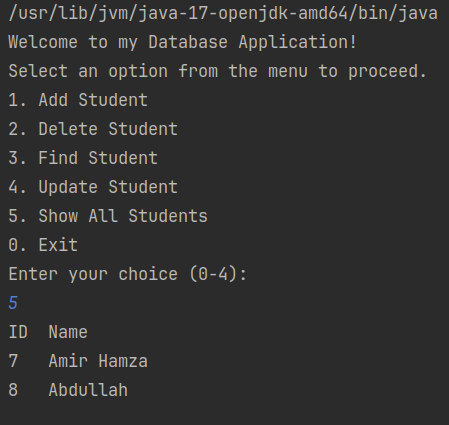
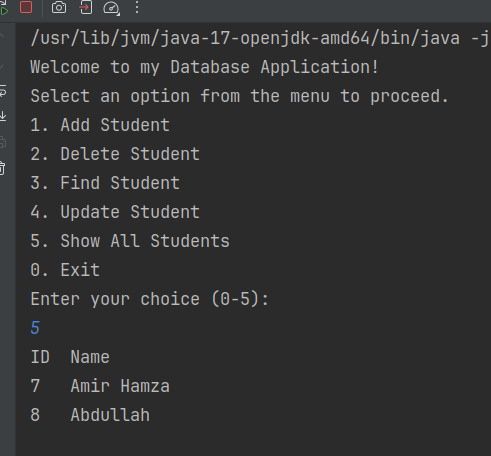
added comments and fixed typing mistakes.

diff --git a/JDBC-CRUD/src/Application/Services.java b/JDBC-CRUD/src/Application/Services.java
@@ -3,17 +3,20 @@ package Application;
 import java.sql.*;
 
 public class Services {
+
+    // Database credentials
     static String url = "jdbc:mysql://urowmyrks8sa1rih:RsKRqsn19uGmkebas6WR@b3p5m8nhncgiqy1daeus-mysql.services.clever-cloud.com:3306/b3p5m8nhncgiqy1daeus";
     static String user = "urowmyrks8sa1rih";
     static String password = "RsKRqsn19uGmkebas6WR";
 
+    // SQL queries for CRUD operations
     static String insertQuery = "insert into newstudent (name) values (?)";
     static String deleteQuery = "delete from newstudent where id = ?";
     static String viewQuery = "select *from newstudent";
     static String findQuery = "select *from newstudent where id = ?";
     static String updateQuery = "update newstudent set name = ? where id = ?";
 
-
+    // Method to insert data into the database
     public static void insertData(String name){
         try (Connection connection = DriverManager.getConnection(url, user, password);
         PreparedStatement ps = connection.prepareStatement(insertQuery)) {
@@ -29,6 +32,7 @@ public class Services {
         }
     }
 
+    // Method to delete data from the database
     public static void deleteData(int id){
         try(Connection connection = DriverManager.getConnection(url, user, password);
         PreparedStatement ps = connection.prepareStatement(deleteQuery)){
@@ -44,6 +48,7 @@ public class Services {
         }
     }
 
+    // Method to view all students in the database
     public static void viewAllStudents(){
         try(Connection connection = DriverManager.getConnection(url, user, password);
         PreparedStatement ps = connection.prepareStatement(viewQuery)){
@@ -59,6 +64,7 @@ public class Services {
         }
     }
 
+    // Method to find a student by ID
     public static void findStudent(int id) {
         try(Connection connection = DriverManager.getConnection(url, user, password);
             PreparedStatement ps = connection.prepareStatement(findQuery)){
@@ -75,6 +81,7 @@ public class Services {
         }
     }
 
+    // Method to update a student's name by ID
     public static void updateStudent(int id, String newName) {
         try(Connection connection = DriverManager.getConnection(url, user, password);
             PreparedStatement ps = connection.prepareStatement(updateQuery)) {

diff --git a/JDBC-CRUD/src/Application/Main.java b/JDBC-CRUD/src/Application/Main.java
@@ -4,6 +4,8 @@ import java.util.Scanner;
 
 public class Main {
     public static void main(String[] args) {
+
+        // Display welcome message and menu options
         System.out.println("Welcome to my Database Application!");
         System.out.println("Select an option from the menu to proceed.");
         System.out.println("1. Add Student");
@@ -12,7 +14,7 @@ public class Main {
         System.out.println("4. Update Student");
         System.out.println("5. Show All Students");
         System.out.println("0. Exit");
-        System.out.println("Enter your choice (0-4): ");
+        System.out.println("Enter your choice (0-5): ");
         Scanner input = new Scanner(System.in);
         int choice = input.nextInt();
         input.nextLine();
@@ -40,7 +42,7 @@ public class Main {
                     System.out.println();
                     break;
                 }
-                case 4:
+                case 4:{
                     System.out.println("Enter the ID of the student to update:");
                     int studentId = input.nextInt();
                     input.nextLine();
@@ -49,6 +51,7 @@ public class Main {
                     Services.updateStudent(studentId, newName);
                     System.out.println();
                     break;
+                }
                 case 5:{
                     Services.viewAllStudents();
                     System.out.println();
@@ -72,7 +75,7 @@ public class Main {
             System.out.println("4. Update Student");
             System.out.println("5. Show All Students");
             System.out.println("0. Exit");
-            System.out.println("Enter your choice (0-4): ");
+            System.out.println("Enter your choice (0-5): ");
             choice = input.nextInt();
         }
     }
